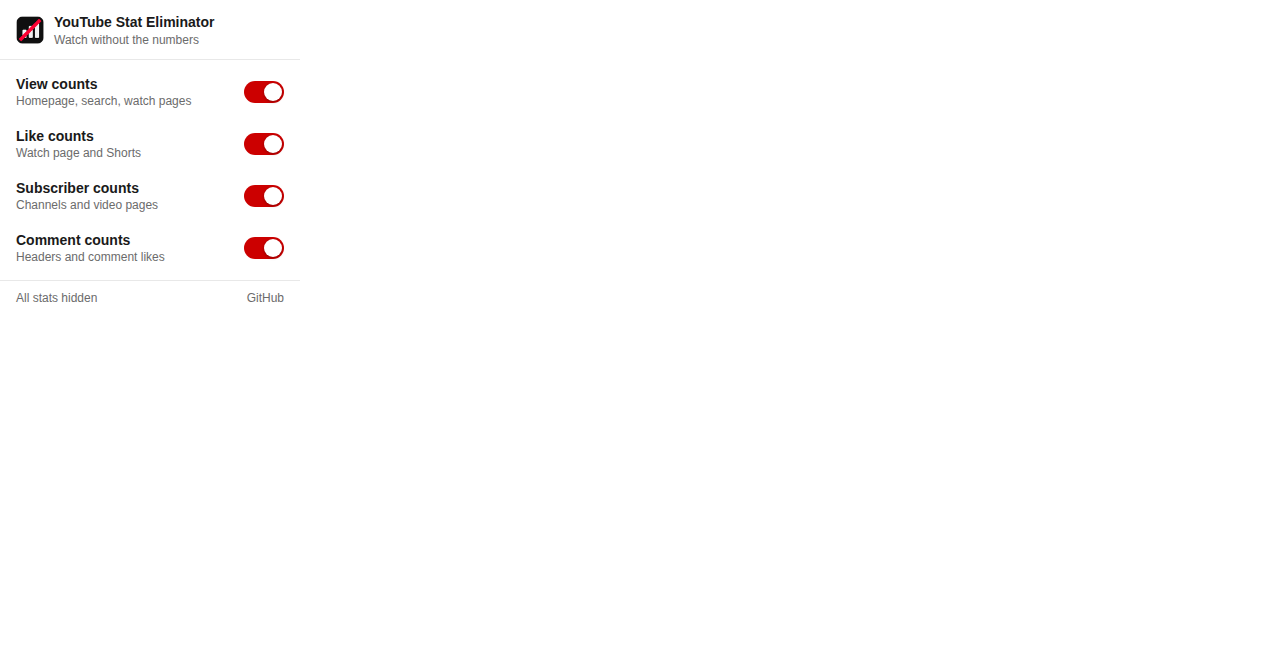
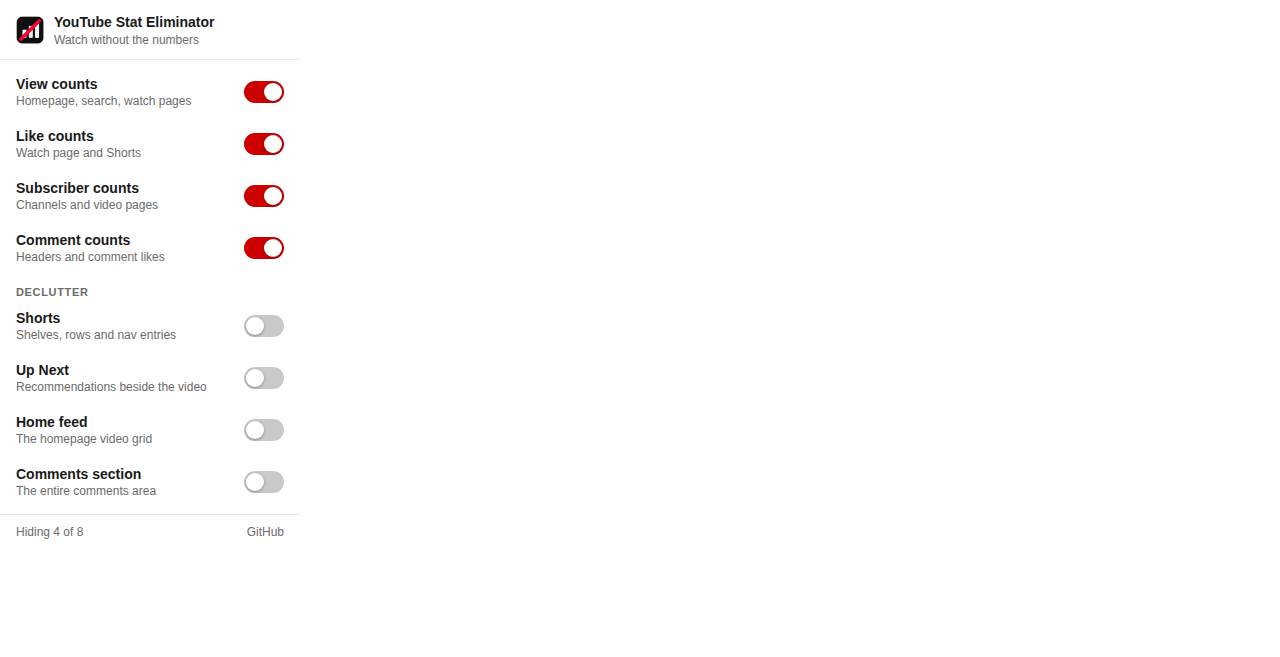
v1.1.0: YouTube declutter toggles

diff --git a/content/content.css b/content/content.css
@@ -49,3 +49,44 @@ html.yse-hide-views ytd-video-view-count-renderer .view-count {
 html.yse-hide-views yt-player-overlay-video-details-renderer .ytPlayerOverlayVideoDetailsRendererSubtitle {
   display: none !important;
 }
+
+/* ================= Declutter ================= */
+
+/* --- Shorts: shelves, rows, lockups, nav entries --- */
+html.yse-no-shorts ytd-rich-shelf-renderer[is-shorts],
+html.yse-no-shorts ytd-reel-shelf-renderer,
+html.yse-no-shorts ytd-rich-item-renderer:has(ytm-shorts-lockup-view-model),
+html.yse-no-shorts ytm-shorts-lockup-view-model,
+html.yse-no-shorts ytd-reel-item-renderer,
+html.yse-no-shorts ytd-video-renderer:has(a[href^="/shorts/"]),
+html.yse-no-shorts ytd-compact-video-renderer:has(a[href^="/shorts/"]),
+html.yse-no-shorts ytd-grid-video-renderer:has(a[href^="/shorts/"]),
+html.yse-no-shorts ytd-guide-entry-renderer:has(a[title="Shorts"]),
+html.yse-no-shorts ytd-mini-guide-entry-renderer:has(a[aria-label="Shorts"]) {
+  display: none !important;
+}
+
+/* --- Up Next: the recommendations column on watch pages --- */
+html.yse-no-upnext ytd-watch-flexy ytd-watch-next-secondary-results-renderer,
+html.yse-no-upnext ytd-watch-flexy #secondary {
+  display: none !important;
+}
+
+/* --- Home feed: the homepage video grid --- */
+html.yse-no-homefeed ytd-browse[page-subtype="home"] ytd-rich-grid-renderer {
+  display: none !important;
+}
+/* Friendly placeholder so a hidden feed doesn't look like a broken page */
+html.yse-no-homefeed ytd-browse[page-subtype="home"] div#primary::after {
+  content: "Home feed hidden — search for something to watch.";
+  display: block;
+  padding: 72px 24px;
+  text-align: center;
+  color: var(--yt-spec-text-secondary, #606060);
+  font-size: 15px;
+}
+
+/* --- Comments section: the entire comments area on watch pages --- */
+html.yse-no-comments-section ytd-watch-flexy #comments {
+  display: none !important;
+}

diff --git a/popup/popup.html b/popup/popup.html
@@ -45,6 +45,40 @@
       </span>
       <span class="switch"><input type="checkbox" id="comments" checked><span class="track"></span></span>
     </label>
+
+    <h2>Declutter</h2>
+
+    <label class="row">
+      <span class="text">
+        <span class="label">Shorts</span>
+        <span class="hint">Shelves, rows and nav entries</span>
+      </span>
+      <span class="switch"><input type="checkbox" id="shorts"><span class="track"></span></span>
+    </label>
+
+    <label class="row">
+      <span class="text">
+        <span class="label">Up Next</span>
+        <span class="hint">Recommendations beside the video</span>
+      </span>
+      <span class="switch"><input type="checkbox" id="upnext"><span class="track"></span></span>
+    </label>
+
+    <label class="row">
+      <span class="text">
+        <span class="label">Home feed</span>
+        <span class="hint">The homepage video grid</span>
+      </span>
+      <span class="switch"><input type="checkbox" id="homefeed"><span class="track"></span></span>
+    </label>
+
+    <label class="row">
+      <span class="text">
+        <span class="label">Comments section</span>
+        <span class="hint">The entire comments area</span>
+      </span>
+      <span class="switch"><input type="checkbox" id="commentsSection"><span class="track"></span></span>
+    </label>
   </main>
 
   <footer>

diff --git a/popup/popup.js b/popup/popup.js
@@ -5,12 +5,9 @@
 (() => {
   'use strict';
 
-  const DEFAULTS = { views: true, likes: true, subs: true, comments: true };
-  const LABELS = {
-    views: 'view counts',
-    likes: 'like counts',
-    subs: 'subscriber counts',
-    comments: 'comment counts',
+  const DEFAULTS = {
+    views: true, likes: true, subs: true, comments: true,
+    shorts: false, upnext: false, homefeed: false, commentsSection: false,
   };
 
   const boxes = {};
@@ -20,15 +17,16 @@
   const status = document.getElementById('status');
 
   function renderStatus(values) {
-    const hidden = Object.keys(DEFAULTS).filter((k) => values[k]);
-    if (hidden.length === Object.keys(DEFAULTS).length) {
-      status.textContent = 'All stats hidden';
+    const keys = Object.keys(DEFAULTS);
+    const hidden = keys.filter((k) => values[k]);
+    if (hidden.length === keys.length) {
+      status.textContent = 'Everything hidden';
       status.classList.remove('hidden-none');
     } else if (hidden.length === 0) {
       status.textContent = 'Nothing hidden';
       status.classList.add('hidden-none');
     } else {
-      status.textContent = `Hiding: ${hidden.map((k) => LABELS[k]).join(', ')}`;
+      status.textContent = `Hiding ${hidden.length} of ${keys.length}`;
       status.classList.remove('hidden-none');
     }
   }

diff --git a/content/content.js b/content/content.js
@@ -13,13 +13,22 @@
 (() => {
   'use strict';
 
-  const DEFAULTS = { views: true, likes: true, subs: true, comments: true };
+  const DEFAULTS = {
+    // Stat hiding (on by default: the extension's original purpose)
+    views: true, likes: true, subs: true, comments: true,
+    // Declutter (opt-in: each hides a whole section of the page)
+    shorts: false, upnext: false, homefeed: false, commentsSection: false,
+  };
 
   const CLASSES = {
     views: 'yse-hide-views',
     likes: 'yse-hide-likes',
     subs: 'yse-hide-subs',
     comments: 'yse-hide-comments',
+    shorts: 'yse-no-shorts',
+    upnext: 'yse-no-upnext',
+    homefeed: 'yse-no-homefeed',
+    commentsSection: 'yse-no-comments-section',
   };
 
   // Full-string matches only (English YouTube UI), so a video titled

diff --git a/popup/popup.css b/popup/popup.css
@@ -56,6 +56,15 @@ header p {
 
 main { padding: 6px 0; }
 
+main h2 {
+  font-size: 11px;
+  font-weight: 650;
+  text-transform: uppercase;
+  letter-spacing: 0.06em;
+  color: var(--text-soft);
+  padding: 12px 16px 2px;
+}
+
 .row {
   display: flex;
   align-items: center;

diff --git a/STORE_LISTING.md b/STORE_LISTING.md
@@ -4,21 +4,29 @@
 YouTube Stat Eliminator
 
 ## Short description (132 chars max)
-Hide view counts, like counts, subscriber counts & comment counts on YouTube. Watch videos without the numbers.
+Hide YouTube view/like/sub/comment counts — plus declutter: Shorts, Up Next, home feed, comments section.
 
 ## Full description
 Tired of view counts deciding what you watch? YouTube Stat Eliminator removes
 engagement statistics across YouTube so you can judge videos on their own merits.
+It can also declutter the page entirely.
 
-HIDES:
+HIDES THE NUMBERS:
 - View counts — homepage, search, channel pages, watch pages, Up Next, Shorts
 - Like counts — watch page and Shorts
 - Subscriber counts — video pages, channel pages, search results
 - Comment counts — comment headers and per-comment likes
 
+DECLUTTERS (OPTIONAL):
+- Shorts — shelves, rows and nav entries, everywhere
+- Up Next — the recommendations column beside videos
+- Home feed — the homepage video grid
+- Comments section — the entire comments area
+
 YOU CONTROL IT:
-Each category toggles independently from the toolbar popup, and changes apply
-instantly to open tabs. Buttons stay fully functional — only the numbers go away.
+Each toggle works independently from the toolbar popup, and changes apply
+instantly to open tabs. Buttons stay fully functional — only the numbers (and
+the clutter you choose) go away.
 
 PRIVATE BY DESIGN:
 No accounts, no analytics, no data collection. Your toggle preferences are the
@@ -34,7 +42,8 @@ English
 1. `1-watch-before.png` — watch page with stats visible (before)
 2. `2-watch-after.png` — watch page with stats hidden (after)
 3. `3-search-after.png` — search results with view counts hidden
-4. `4-popup.png` — the settings popup
+4. `4-popup.png` — the settings popup (v1.1: stats + declutter sections)
+5. `5-home-decluttered.png` — homepage with the feed hidden
 
 ## Icon
 `icons/icon128.png` (16/48/128 included in the package)

diff --git a/README.md b/README.md
@@ -2,7 +2,8 @@
 
 A Chrome extension (Manifest V3) that hides view counts, like counts, subscriber
 counts, and comment counts across YouTube — so you can watch videos without
-the numbers shaping what you click.
+the numbers shaping what you click. It can also declutter the page: Shorts,
+Up Next recommendations, the home feed, and the comments section.
 
 ## What it hides
 
@@ -13,9 +14,19 @@ the numbers shaping what you click.
 | Subscriber counts | Video pages, channel pages, search results |
 | Comment counts | Comment section header, per-comment like counts |
 
-Each category can be toggled independently from the toolbar popup. Buttons stay
-functional — only the numbers disappear. Settings sync across your Chrome
-profile via `chrome.storage.sync`.
+## Declutter (opt-in)
+
+| Toggle | Effect |
+|---|---|
+| Shorts | Hides Shorts shelves, rows, lockups, and nav entries everywhere |
+| Up Next | Hides the recommendations column on watch pages |
+| Home feed | Hides the homepage video grid (shows a "search for something" hint) |
+| Comments section | Hides the entire comments area on watch pages |
+
+Each toggle works independently from the toolbar popup, and changes apply
+instantly to open tabs. Buttons stay functional — only the numbers (and the
+clutter) go away. Settings sync across your Chrome profile via
+`chrome.storage.sync`.
 
 ## Install (load unpacked)
 
